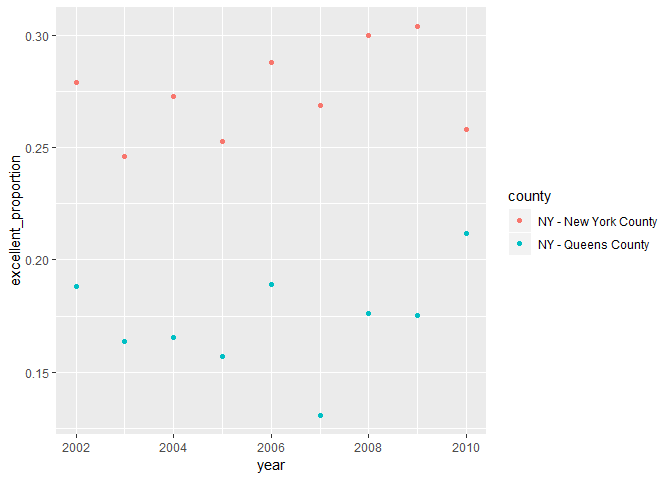
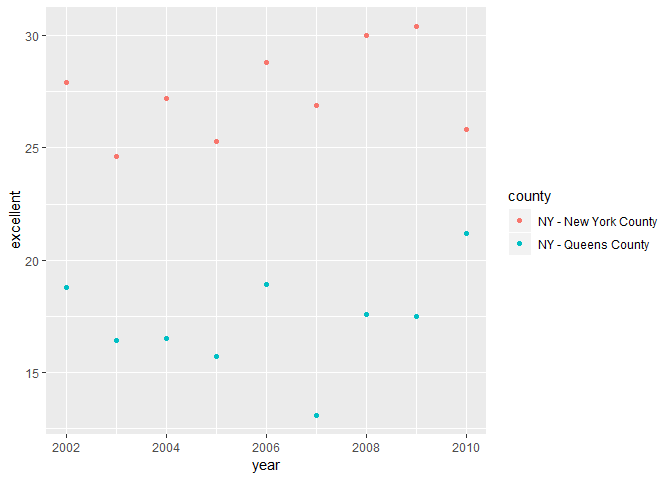
small formatting updates

diff --git a/p8105_hw2_alc2279.md b/p8105_hw2_alc2279.md
@@ -3,8 +3,6 @@ p8105\_hw2\_alc2279
 Annie Clark
 September 29, 2018
 
-General questions - do we need to print everything? even when just load/clean data? question 3 - a more elegant way to do proportion? assumptions in question 3, part 2? \*\*make sure to name code chunks
-
 Problem 0
 =========
 
@@ -33,14 +31,14 @@ Read and clean the data; retain line, station, name, station latitude / longitud
 library(tidyverse)
 ```
 
-    ## -- Attaching packages ------------------------------------------------------------------------------------- tidyverse 1.2.1 --
+    ## -- Attaching packages ------------------------------------------------------------- tidyverse 1.2.1 --
 
     ## v ggplot2 3.0.0     v purrr   0.2.5
     ## v tibble  1.4.2     v dplyr   0.7.6
     ## v tidyr   0.8.1     v stringr 1.3.1
     ## v readr   1.1.1     v forcats 0.3.0
 
-    ## -- Conflicts ---------------------------------------------------------------------------------------- tidyverse_conflicts() --
+    ## -- Conflicts ---------------------------------------------------------------- tidyverse_conflicts() --
     ## x dplyr::filter() masks stats::filter()
     ## x dplyr::lag()    masks stats::lag()
 
@@ -82,7 +80,7 @@ The dataset, subway\_data, includes charcteristics of every subway entrance or e
 
 So far, I have paired down the data to the relevant variables, standardized the names (i.e. made them lower case and removed spaces/special characters), and converted the entry variable from character to logical, which will be useful in the analysis.
 
-So far, this tabel that consists of 1868 rows and 19 columns is not yet considered to be "tidy." The 11 columns that contain route information need to be gathered into one variable (and additionally cleaned up), the vending variable should be changed to logical, the entrance\_type variable could probably be changed to factor, and I would want to play around with cleaning up station\_name and line (i.e. standardizing the case and possible the names, i.e. avenue vs. ave).
+So far, this table that consists of 1868 rows and 19 columns is not yet considered to be "tidy." The 11 columns that contain route information need to be gathered into one variable (and additionally cleaned up), the vending variable should be changed to logical, the entrance\_type variable could probably be changed to factor, and I would want to play around with cleaning up station\_name and line (i.e. standardizing the case and possible the names, i.e. avenue vs. ave).
 
 Part 3: Answer some questions
 -----------------------------
@@ -128,6 +126,7 @@ Reformat data so that route number and route name are distinct variables.
 subway_data =  
   gather(subway_data, key = route_num, value = route_name, route1:route11) %>% 
   separate(route_num, into = c("route", "route_num"), sep = 5) %>%
+  filter(!is.na(route_name)) %>% 
   select(line:ada, route_num, route_name)
 ```
 
@@ -210,23 +209,17 @@ precipitation_data = bind_rows(precipitation_2016_data, precipitation_2017_data)
 Part 2: Describe dataset
 ------------------------
 
+### Prompt
+
 Write a paragraph about these data; you are encouraged to use inline R. Be sure to note: \* the number of observations in both resulting datasets \* give examples of key variables For available data, what was the total precipitation in 2017? What was the median number of sports balls in a dumpster in 2016?
 
-``` r
-sum(precipitation_2017_data$precipitation_in)
-```
+### Response
 
-    ## [1] 29.93
+The first dataset created includes data about the volume/weight and type of trash picked up by the the water wheels (water\_wheel\_data) by date going back to May 2014. The data in its current state is not tidy (i.e. the year variable has missing data, which can easily be cleaned). This data contains 215 observations and 14 columns. The median number of sports balls that were collected in 2016 by the dumpster was 26.
 
-``` r
-water_wheel_data %>% filter(year == "2016") %>% pull (sports_balls) %>% median()
-```
+The second dataset includes precipitation data for 2016 and 2017 (i.e. number of inches of rain by month and year). It was created by combining the 2016 dataset (12 rows and 3 columns) and the 2017 dataset (8 rows and 3 columns). The resulting data is 20 observations and 3 columns. The total rainfall in 2017 that was recoded (months Jan through Aug) is 29.93.
 
-    ## [1] 26
-
-The first dataset created includes data about the volume/weight and type of trash picked up by the the water wheels (water\_wheel\_data) by date going back to May 2014. The data in its current state is not tidy (i.e. the year variable has missing data, which can easily be cleaned). This data contains 'r nrow(water\_wheel\_data)' rows and 'r ncol(water\_wheel\_data)' columns.
-
-The second dataset includes precipitation data for 2016 and 2017. It was created by combining the 2016 dataset 'r nrow(precipitation\_2016\_data)' rows and 'r ncol(precipitation\_2016\_data) columns) and the 2017 dataset ('r nrow(precipitation\_2017\_data)' rows and 'r ncol(precipitation\_2017\_data columns). The resulting data is 'r nrow(precipitation\_data)' rows and 'r ncol(precipitation\_data) columns
+I can see that joining these tables would be benficial to see how rainfall affects the amount of trash collected. To join these tables, I would use a concatenated variable of month and year as the "key" variables. Other important variables would be rainfall and weight/volume of data collected.
 
 Problem 3
 =========
@@ -316,7 +309,7 @@ distinct(brfss_data, state)
 ## DC is included
 ```
 
-There are 51 states represented, including DC.
+All 50 states (plus DC) are represented.
 
 -   What state is observed the most?
 
@@ -352,18 +345,14 @@ ggplot(brfss_data %>% filter(year == 2002), aes(x = excellent)) +
 
     ## Warning: Removed 2 rows containing non-finite values (stat_bin).
 
-![](p8105_hw2_alc2279_files/figure-markdown_github/unnamed-chunk-17-1.png)
+![](p8105_hw2_alc2279_files/figure-markdown_github/unnamed-chunk-16-1.png)
 
 -   Make a scatterplot showing the proportion of “Excellent” response values in New York County and Queens County (both in NY State) in each year from 2002 to 2010.
 
 ``` r
-brfss_queens_ny_data = 
-  brfss_data %>%
-  filter(county %in% c("NY - Queens County", "NY - New York County")) %>% 
-  mutate(excellent_proportion = excellent / (excellent + very_good + good + fair + poor))
-
-ggplot(brfss_queens_ny_data, aes(x = year, y = excellent_proportion)) + 
+ggplot(brfss_data %>% filter(county %in% c("NY - Queens County", "NY - New York County")) , 
+  aes(x = year, y = excellent)) + 
   geom_point(aes(color = county))
 ```
 
-![](p8105_hw2_alc2279_files/figure-markdown_github/unnamed-chunk-18-1.png)
+![](p8105_hw2_alc2279_files/figure-markdown_github/unnamed-chunk-17-1.png)
